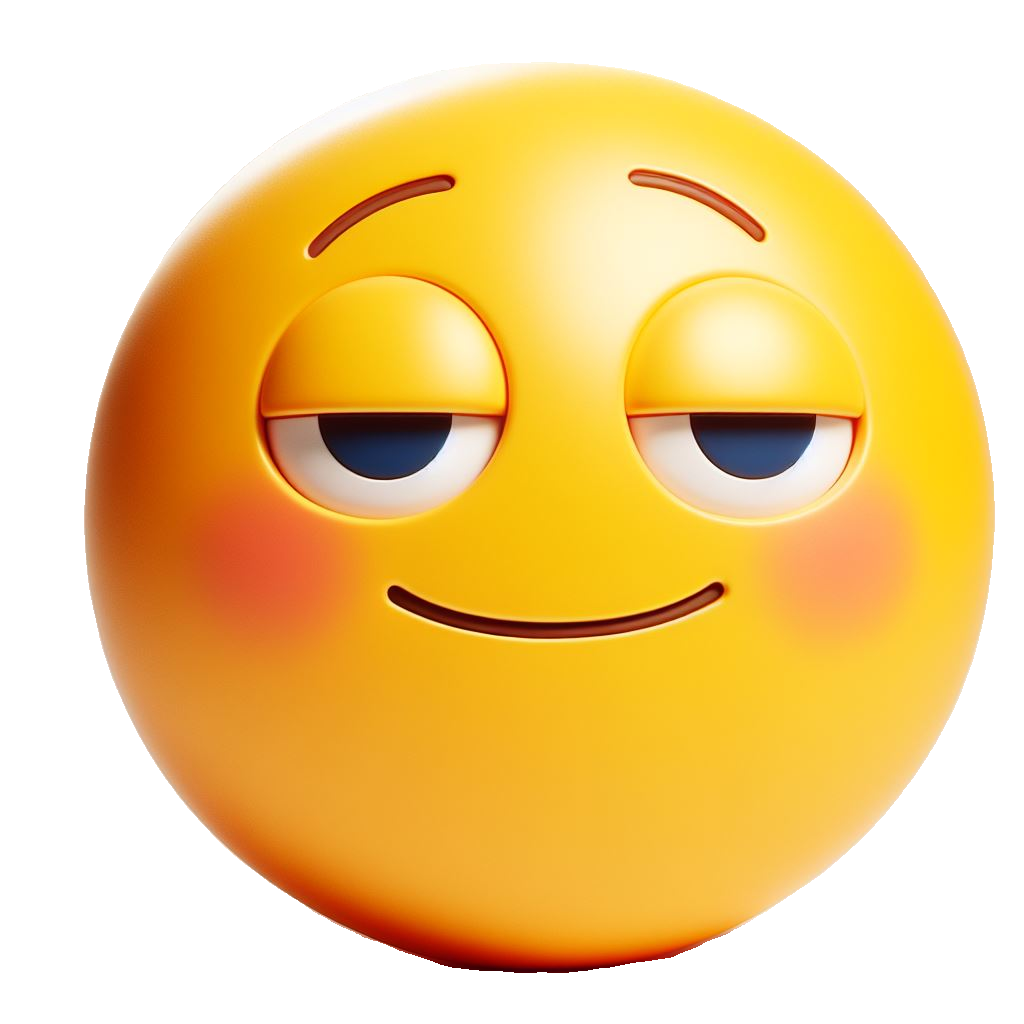
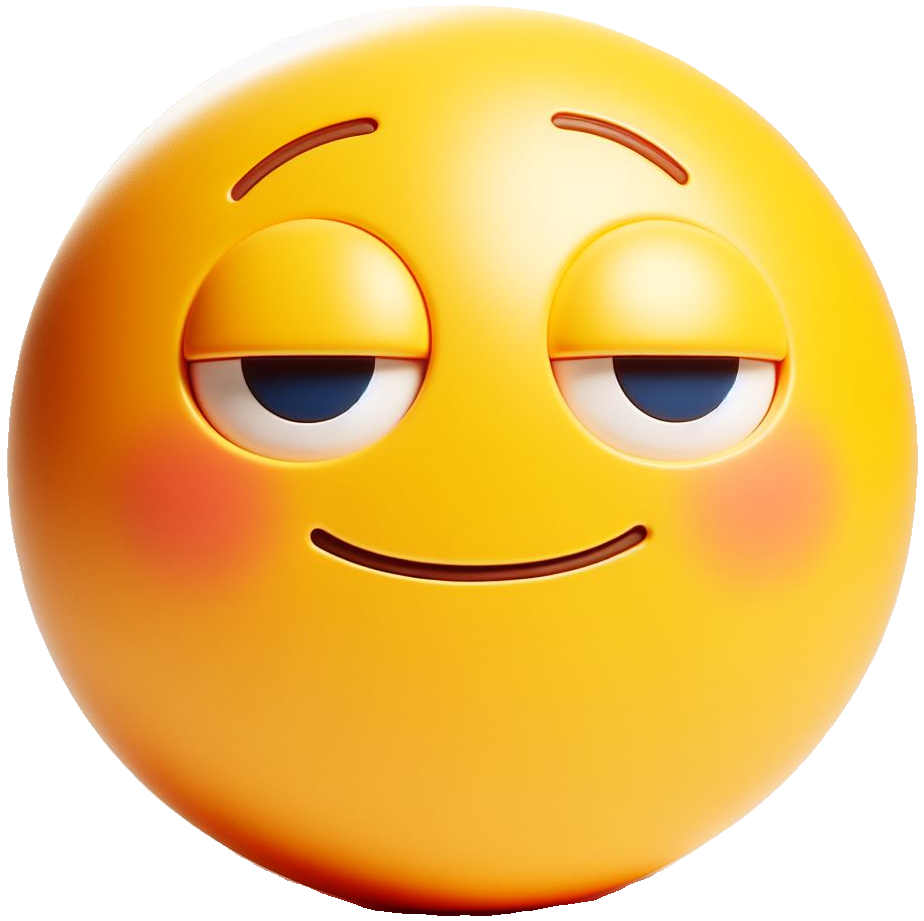
adjusted size and positions using MATH! :'(

diff --git a/match.js b/match.js
@@ -12,14 +12,9 @@ const boxText = document.getElementById("promptText");
 const FLAG_COLOR = "red";
 let imgPath = require("./img/smile.png");
 
-let theGameSize = 40;
-let theGameWidth = 40;
-let theGameHeight = 40;
 let theMaxWidth = 50;
 let theMaxHeight = 50;
 let theImageSize = 5;
-let theGameSizeUnit = "vw";
-let rightSidePositon = (50 - theGameSize);
 
 let startAmount = 1;
 let numberOfFaces = startAmount;
@@ -209,44 +204,38 @@ async function displayTimer(displayOn = true) {
 function setGameSize() {
     //If window width is greater than height size according to height and vice versa
     if (document.body.clientHeight < document.body.clientWidth) {
-        //theGameWidth = 40;
         theMaxWidth = 40;
-        //theGameHeight = 80;
         theMaxHeight = 80;
-        //theGameSizeUnit = "vh";
-        //document.getElementById("tcheck").textContent = "Fat"
     } else {
-        //theGameWidth = 80;
-        theMaxWidth = 80;
-        //theGameHeight = 50;
+        theMaxWidth = 100;
         theMaxHeight = 40;
-        //document.getElementById("tcheck").textContent = "Skinny"
 
     }
 
     //set the game size
-    // document.documentElement.style.setProperty("--game-width", `${theGameWidth}vw`);
     document.documentElement.style.setProperty("--game-max-width", `${theMaxWidth}vw`);
-    // document.documentElement.style.setProperty("--game-height", `${theGameHeight}vh`);
     document.documentElement.style.setProperty("--game-max-height", `${theMaxHeight}vh`);
-
     document.documentElement.style.setProperty("--image-size", `${theImageSize}vw`);
-    // document.documentElement.style.setProperty("--game-size", `${theGameSize}${theGameSizeUnit}`);
-    // document.documentElement.style.setProperty("--right-position", `${rightSidePositon}${theGameSizeUnit}`);
 
 }
 function generateFaces() {
 
     setGameSize();
 
-    for (i = 0; i < numberOfFaces; i++) {
+    for (let i = 0; i < numberOfFaces; i++) {
         const face = document.createElement("img");
         face.src = imgPath;
+        face.style.width = theImageSize + "vw"
+        face.style.height = theImageSize + "vw"
+        // console.log(theImageSize)
+        let randomTop = Math.floor((Math.random() * 100) + 1);
+        let randomLeft = Math.floor((Math.random() * 100) + 1);
 
-        let randomTop = Math.floor((Math.random() * 100) + 1) -theImageSize;
-        let randomLeft = Math.floor((Math.random() * 100) + 1)-theImageSize;
-        randomTop = randomTop<1 ? 1 : randomTop
+        randomLeft-=  (((theImageSize/100)*document.body.clientWidth) / theLeftSide.clientWidth)*100;
         randomLeft = randomLeft<1 ? 1 : randomLeft
+
+        randomTop-=  (((theImageSize/100)*document.body.clientHeight) / theLeftSide.clientHeight)*100;
+        randomTop = randomTop<1 ? 1 : randomTop
 
         face.style.top = randomTop + "%";//theGameSizeUnit;
         face.style.left = randomLeft + "%";// theGameSizeUnit;

diff --git a/index.html b/index.html
@@ -26,7 +26,7 @@
 
 
     <!-- For debugging --><!--Adds borders for visualization-->
-    <link rel="stylesheet" href="../Debug/Tools/CSS/bootstrap-borders-styles.css"/>
+    <!-- <link rel="stylesheet" href="../Debug/Tools/CSS/bootstrap-borders-styles.css"/> -->
 
 
     <link rel="stylesheet" href="styles.css">
@@ -39,13 +39,13 @@
                 <div class="col">
                     <h1 id="tcheck">Matching Game</h1>
                     <!--for debug (Displays BS viewport)-->
-                    <div class="col-1" style="color:white; background-color: black;">
+                    <!-- <div class="col-1" style="color:white; background-color: black;">
                         <span class="d-sm-none">XS View</span>
                         <span class="d-none d-sm-inline d-md-none">SM View</span>
                         <span class="d-none d-md-inline d-lg-none">MD View</span>
                         <span class="d-none d-lg-inline d-xl-none">LG View</span>
                         <span class="d-none d-xl-inline">XL View</span>
-                    </div>
+                    </div> -->
 
 
                 </div>
@@ -95,7 +95,7 @@
                     </div>
                     <div class="row">
                         <label class="col form-check-label text-sm-end" for="chkChallenge" id="lblChallenge">Time limit
-                            <input type="checkbox" class="form-check-input" value="true" name="challenge" id="chkChallenge">
+                            <input type="checkbox" class="form-check-input" checked="true" value="true" name="challenge" id="chkChallenge">
                         </label>
                     </div>
                 </div>

diff --git a/styles.css b/styles.css
@@ -27,12 +27,9 @@ body{
 
 #rightSide, #leftSide{
     position:relative;
-    /* width: 100%; */
     height: 50vh;
-    /* width: var(--game-width);
-    height:var(--game-height);
     max-width: var(--game-max-width);
-    max-height: var(--game-max-height); */
+    max-height: var(--game-max-height);
     border: 4px solid;
     border-color: var(--box-color);
     background-color: cadetblue;
@@ -93,7 +90,7 @@ body{
     background:linear-gradient(to bottom,rgba(0,0,0,.8),rgba(0,0,0,0)); 
     margin:0px;
     border: 1px;
-    padding: 1px;
+    /* padding: 1px; */
     color: yellow;
 }
 .transparent-bar-nav {
